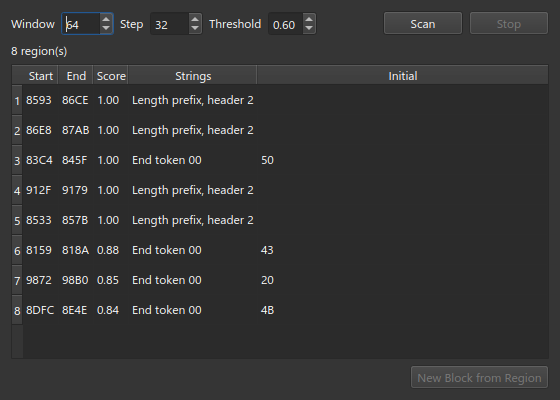
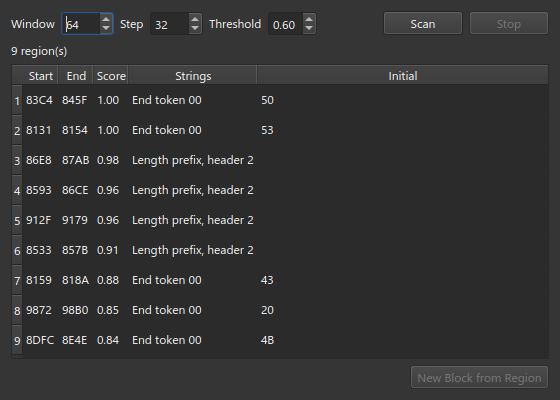
Bring the Getting Started guide in step with the scan, the byte-based status and the Decompressed View

diff --git a/wiki/Getting-Started.md b/wiki/Getting-Started.md
@@ -63,7 +63,8 @@ Add the rest by hand — **New**, Key, Text, **Add**:
 Pick **@mk2** in the **Table** list.
 
 **Search ▸ Scan for Text…** (Ctrl+Shift+R) lists text-like regions and how
-their strings end. Selecting a row jumps to it.
+their strings end: an **End token**, or a **Length prefix** with the bytes of
+header in front of it. Selecting a row jumps to it.
 
 ![The Scan window](images/03-scan.png)
 
@@ -210,8 +211,10 @@ mapchar does not edit graphics. Until the font is redrawn, the game draws
 `ДОБИЙ ЙОГО!` as `DOSNJ JOGO!`.
 
 1. The font is not plain tiles in the ROM: the graphics are RNC-packed (29
-   `RNC` `02` streams). It is the stream at `$AC54` — 1,951 bytes packed,
-   3,056 unpacked: 191 Game Boy 2bpp tiles, a blank, `0`–`9`, then `A`–`Z`.
+   `RNC` `02` streams). **View ▸ Decompressed View…** (Ctrl+Shift+D), then
+   **Structures ▸ Find All**, lists them. It is the stream at `$AC54` — 1,951
+   bytes packed, 3,056 unpacked: 191 Game Boy 2bpp tiles, a blank, `0`–`9`,
+   then `A`–`Z`.
 2. Unpack that stream, edit it in a tile editor (celPix, YY-CHR), and repack
    it to 1,951 bytes or fewer.
 3. Finishes and Fighter names are drawn by different routines; check both on
@@ -226,8 +229,8 @@ Open **Finishes** and set **Table** to **@mk2-translated**.
 
 ![Finishes through the translated table](images/09-finishes-new-table.png)
 
-The bytes are unchanged; they now decode as Cyrillic, so every string reads
-as *edited*.
+The bytes are unchanged, so every string is still *untouched*; they only
+decode as Cyrillic now.
 
 Double-click a **Translation** cell and type. Enter commits and moves on.
 
